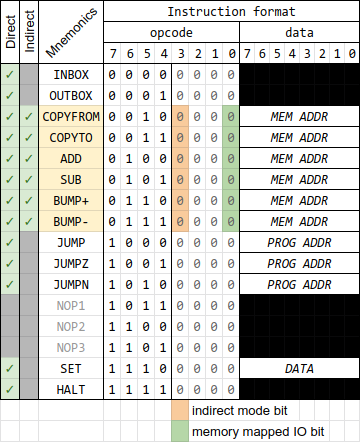
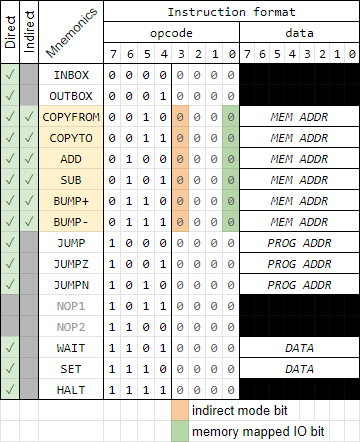
Document new WAIT instruction

diff --git a/README.md b/README.md
@@ -150,6 +150,14 @@ The table below details the modules, the addresses and the corresponding functio
 | :----------- | :------------------------------------------------- |
 | COPYTO /LEDS | Power on/off the leds according to the 8 bits of R |
 
+## Timer (WAIT)
+
+I have added a new instruction, WAIT: It takes one operand N, and will pause the execution for N x 50ms.
+
+| Instruction  | Meaning                          |
+| :----------- | :------------------------------- |
+| WAIT n       | Pause the execution for n x 50ms |
+
 ## Assembler
 
 I have prepared a rudimentary [assembler](https://github.com/adumont/hrm-cpu/blob/harvard/logisim/prog/assembler) that translates an HRM program to the corresponding machine language that can then be loaded into the [PROG (Program ROM)](#prog-program-rom).
